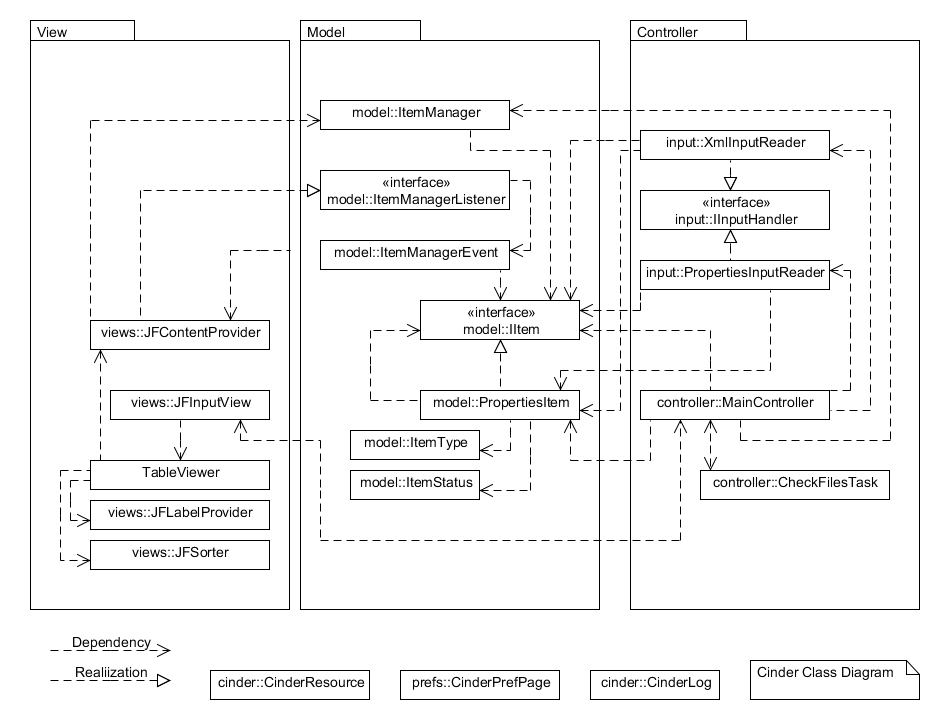
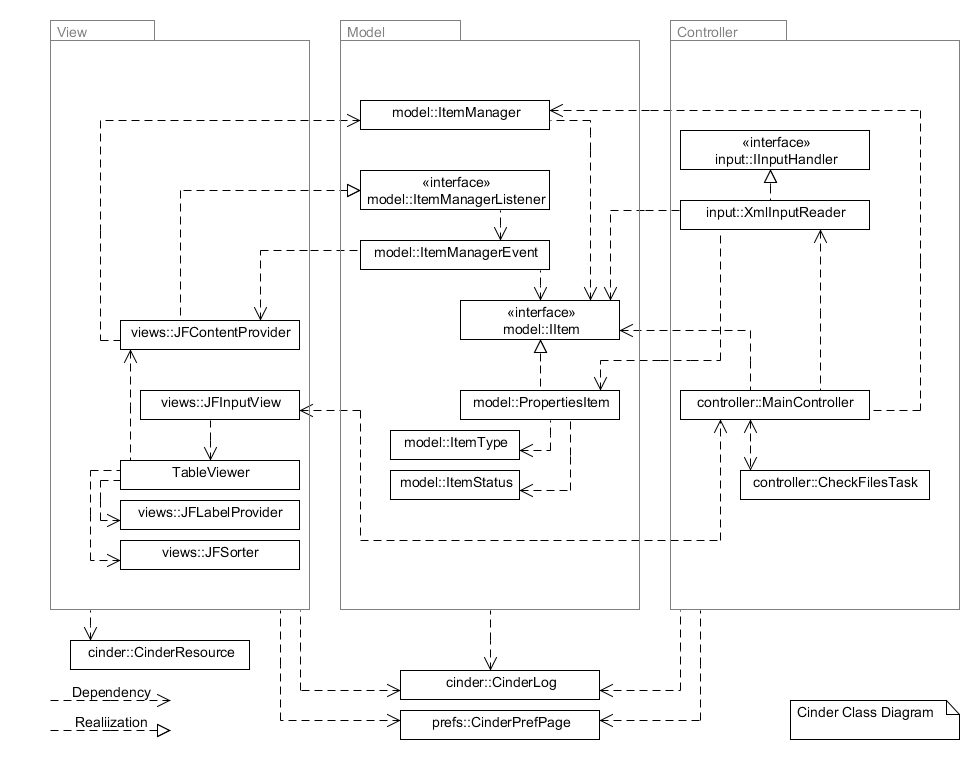
removed PropertiesItem dependency from MainController added setStatus() to IItem
updated UML class diagram

diff --git a/src/org/art_core/dev/cinder/controller/MainController.java b/src/org/art_core/dev/cinder/controller/MainController.java
@@ -208,8 +208,7 @@ public class MainController {
 	 * @param status
 	 */
 	public void setStatus(IItem item, ItemStatus status) {
-		PropertiesItem pItem = (PropertiesItem) item;
-		pItem.setStatus(status);
+		item.setStatus(status);
 		CinderLog.logDebug("setting status to " + status.name());
 		cView.getViewer().refresh();
 	}

diff --git a/src/org/art_core/dev/cinder/model/IItem.java b/src/org/art_core/dev/cinder/model/IItem.java
@@ -20,6 +20,8 @@ public interface IItem extends IAdaptable {
 	int getTimestamp();
 	
 	ItemStatus getStatus();
+	
+	void setStatus(ItemStatus status);
 
 	ItemType getType();
 
